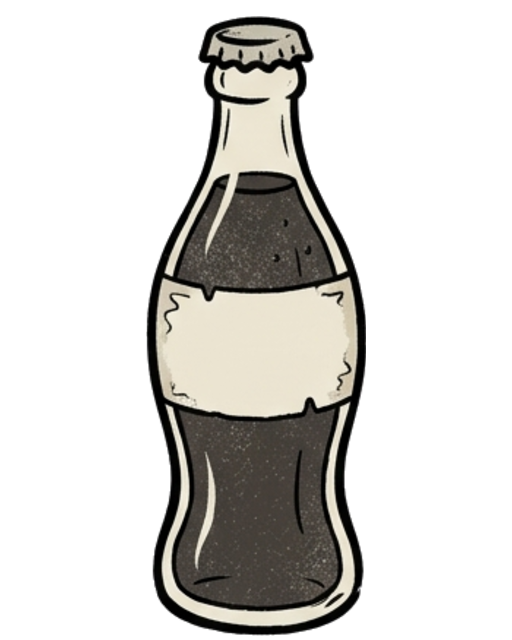
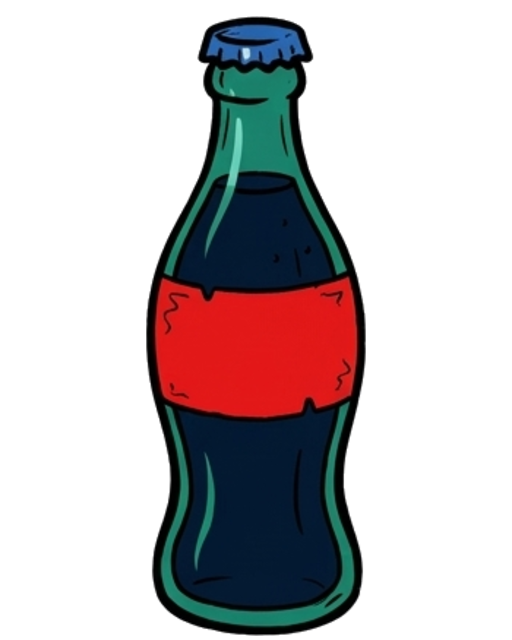
assets: cut colour sprites from gen_color_ sheets; move all source sheets to art/
Source sheets (gemini-*-solo.jpg, gen_*.jpg, gen_color_*.jpg) no longer live in
public/, so they never ship in dist. Runtime sprites are re-cut from the colour
recolours with the same crop boxes (layout matched, checked on a contact sheet).

Task: SA-V2-13

Changed region(s): [[0.2812, 0.0312, 0.7188, 1.0]]

diff --git a/tools/cut_sprites.py b/tools/cut_sprites.py
@@ -1,5 +1,8 @@
 """Re-cut clean RGBA sprites from the Gemini concept sheets (white paper background, no stands).
 
+Sources live in art/ (never shipped); the runtime cuts come from the colour recolours (gen_color_*),
+which share the B/W sheets' layout, so the crop boxes are the same.
+
 Runs the pixel work inside headless Chromium's canvas (no PIL in the project venv):
   PLAYWRIGHT_BROWSERS_PATH=.playwright-browsers .venv-browser/bin/python tools/cut_sprites.py
 Per figure: crop a region of the sheet, flood-fill the paper from the crop edges, also clear large
@@ -14,21 +17,22 @@ from playwright.sync_api import sync_playwright
 
 ROOT = Path(__file__).resolve().parents[1]
 ASSETS = ROOT / 'public' / 'assets'
+ART = ROOT / 'art'
 # Shared pixel scale per family keeps frames of one character the same size when they swap in-game.
 CAT_SCALE = 1.1
 JOBS = [
     # source, output, options: crop [x0,y0,x1,y1] in sheet px, blank = rows to clear from the top,
     # mirror = flip horizontally, hole = min enclosed-paper area cleared (default 1400; eye whites are smaller), scale = fixed px scale (else fit), fit = 'height' | 'width' | 'box'
-    ('gemini-bully-solo.jpg', 'bully.png', {}),
-    ('gemini-dog-solo.jpg', 'dog_halo.png', {'blank': 205}),
-    ('gen_cat_poses.jpg', 'gen_cat_windup.png', {'crop': [10, 180, 390, 760], 'mirror': True, 'scale': CAT_SCALE}),
-    ('gen_cat_poses.jpg', 'gen_cat_hurt.png', {'crop': [340, 180, 715, 760], 'mirror': True, 'scale': CAT_SCALE}),
-    ('gen_cat_poses.jpg', 'gen_cat_ko.png', {'crop': [670, 230, 1010, 760], 'mirror': True, 'scale': CAT_SCALE, 'hole': 150}),
-    ('gen_dog_poses.jpg', 'gen_dog_walk.png', {'crop': [0, 180, 375, 590], 'hole': 150}),
-    ('gen_dog_poses.jpg', 'gen_dog_sit.png', {'crop': [180, 190, 760, 910]}),
-    ('gen_dog_poses.jpg', 'gen_dog_sad.png', {'crop': [665, 330, 1020, 770]}),
-    ('gen_props.jpg', 'gen_barrel.png', {'crop': [50, 85, 360, 500]}),
-    ('gen_props.jpg', 'gen_bottle.png', {'crop': [790, 75, 970, 510]}),
+    ('gen_color_gemini-bully-solo.jpg', 'bully.png', {}),
+    ('gen_color_gemini-dog-solo.jpg', 'dog_halo.png', {'blank': 205}),
+    ('gen_color_gen_cat_poses.jpg', 'gen_cat_windup.png', {'crop': [10, 180, 390, 760], 'mirror': True, 'scale': CAT_SCALE}),
+    ('gen_color_gen_cat_poses.jpg', 'gen_cat_hurt.png', {'crop': [340, 180, 715, 760], 'mirror': True, 'scale': CAT_SCALE}),
+    ('gen_color_gen_cat_poses.jpg', 'gen_cat_ko.png', {'crop': [670, 230, 1010, 760], 'mirror': True, 'scale': CAT_SCALE, 'hole': 150}),
+    ('gen_color_gen_dog_poses.jpg', 'gen_dog_walk.png', {'crop': [0, 180, 375, 590], 'hole': 150}),
+    ('gen_color_gen_dog_poses.jpg', 'gen_dog_sit.png', {'crop': [180, 190, 760, 910]}),
+    ('gen_color_gen_dog_poses.jpg', 'gen_dog_sad.png', {'crop': [665, 330, 1020, 770]}),
+    ('gen_color_gen_props.jpg', 'gen_barrel.png', {'crop': [50, 85, 360, 500]}),
+    ('gen_color_gen_props.jpg', 'gen_bottle.png', {'crop': [790, 75, 970, 510]}),
 ]
 JS = '''async ([src, o]) => {
   const img = new Image(); img.src = src; await img.decode();
@@ -88,7 +92,7 @@ with sync_playwright() as p:
     browser = p.chromium.launch(headless=True, args=['--no-sandbox'])
     page = browser.new_page()
     for src, dst, opts in JOBS:
-        source = ASSETS / src
+        source = ART / src
         if not source.exists():
             print(dst, 'SKIPPED: missing', src)
             continue

diff --git a/ASSETS.md b/ASSETS.md
@@ -1,22 +1,40 @@
 # Ассеты и происхождение
 
-| Файл | Что это | Генератор | Обработка |
-|---|---|---|---|
-| `public/assets/gemini-bully-solo.jpg` | концепт задиры-кота (rubber-hose, 1930-е) | Gemini image model (через Tyler) | — исходник |
-| `public/assets/gemini-dog-solo.jpg` | концепт пса с нимбом | Gemini image model (через Tyler) | — исходник |
-| `public/assets/bully.png` | RGBA-спрайт задиры 512×640, ноги внизу | из `gemini-bully-solo.jpg` | Claude: `tools/cut_sprites.py` — заливка фона от краёв, мягкая кромка, обрезка, вписывание |
-| `public/assets/dog_halo.png` | RGBA-спрайт пса 512×640 (нарисованный нимб убран — в игре он анимированный); с SA-V2-12 — запасной, основной кадр `gen_dog_sit.png` | из `gemini-dog-solo.jpg` | Claude: `tools/cut_sprites.py` |
-| `public/assets/gen_cat_poses.jpg` | лист поз задиры-кота: замах гаечным ключом / получил / нокаут | Gemini image model (сгенерировал Tyler) | — исходник |
-| `public/assets/gen_dog_poses.jpg` | лист поз пса: идёт / сидит довольный / грустит | Gemini image model (сгенерировал Tyler) | — исходник |
-| `public/assets/gen_props.jpg` | лист пропсов: бочонок, ящики, бутылка, мусорный бак, забор | Gemini image model (сгенерировал Tyler) | — исходник |
-| `public/assets/gen_cat_windup.png`, `gen_cat_hurt.png`, `gen_cat_ko.png` | кадры задиры: замах (телеграф удара), реакция на удар, нокаут | из `gen_cat_poses.jpg` | Claude: `tools/cut_sprites.py` — вырез фигуры, отражение (смотрит как `bully.png`), общий масштаб, без нарисованных звёздочек |
-| `public/assets/gen_dog_walk.png`, `gen_dog_sit.png`, `gen_dog_sad.png` | кадры пса: идёт, сидит (основной), грустит после удара | из `gen_dog_poses.jpg` | Claude: `tools/cut_sprites.py` |
-| `public/assets/gen_barrel.png`, `gen_bottle.png` | бочонок и бутылка кваса — предметы, которые можно схватить и бросить | из `gen_props.jpg` | Claude: `tools/cut_sprites.py` |
-| `art/gemini-flash-pov-master.jpg` | старый концепт руки от первого лица (только референс, в сборку не входит) | Gemini image model (через Tyler) | — исходник |
+Цветовая логика (SA-V2-13): мир — чёрно-белый, как старая плёнка; в цвете только персонажи и то, с чем можно взаимодействовать. Поэтому в игре используются вырезки из цветных листов `gen_color_*`, а ч/б листы остались исходниками-референсами.
 
-Процедурно в рантайме (Canvas 2D / Three.js): руки игрока (шланг + перчатка, `src/arm.ts`; растровые `pov_*.png` удалены в SA-V2-12), нимб, звёздочки нокаута, тучка грустного пса, комикс-вспышки, запасные бутылка и бочонок (если PNG не загрузился), неоновые вывески, гирлянды, всё 3D-окружение, небо-градиенты уровней. Звук — синтез Web Audio, без файлов.
+Исходники лежат в `art/` и в сборку не попадают (Vite копирует в `dist/` только `public/`). В `public/assets/` — только вырезанные RGBA-спрайты, которые грузит игра.
 
-Не использованы из `gen_props.jpg`: ящики, мусорный бак и забор — укрытия остаются 3D-геометрией (это настоящие препятствия с глубиной и тенями; плоская картинка на кубе смотрелась бы хуже).
+## Исходники (`art/`, не в сборке)
+
+| Файл | Что это | Генератор |
+|---|---|---|
+| `art/gemini-bully-solo.jpg` | ч/б концепт задиры-кота (rubber-hose, 1930-е) | Gemini image model (через Tyler) |
+| `art/gemini-dog-solo.jpg` | ч/б концепт пса с нимбом | Gemini image model (через Tyler) |
+| `art/gen_cat_poses.jpg` | ч/б лист поз задиры: замах гаечным ключом / получил / нокаут | Gemini image model (сгенерировал Tyler) |
+| `art/gen_dog_poses.jpg` | ч/б лист поз пса: идёт / сидит довольный / грустит | Gemini image model (сгенерировал Tyler) |
+| `art/gen_props.jpg` | ч/б лист пропсов: бочонок, ящики, бутылка, мусорный бак, забор | Gemini image model (сгенерировал Tyler) |
+| `art/gen_color_gemini-bully-solo.jpg` | цветная перерисовка `gemini-bully-solo.jpg` (рыжий кот, кепка, полосатый свитер) | Gemini image model (сгенерировал Tyler) |
+| `art/gen_color_gemini-dog-solo.jpg` | цветная перерисовка `gemini-dog-solo.jpg` (золотой нимб) | Gemini image model (сгенерировал Tyler) |
+| `art/gen_color_gen_cat_poses.jpg` | цветная перерисовка `gen_cat_poses.jpg`, раскладка та же | Gemini image model (сгенерировал Tyler) |
+| `art/gen_color_gen_dog_poses.jpg` | цветная перерисовка `gen_dog_poses.jpg`, раскладка та же | Gemini image model (сгенерировал Tyler) |
+| `art/gen_color_gen_props.jpg` | цветная перерисовка `gen_props.jpg`, раскладка та же | Gemini image model (сгенерировал Tyler) |
+| `art/gemini-flash-pov-master.jpg` | старый концепт руки от первого лица (только референс) | Gemini image model (через Tyler) |
+
+## Спрайты в игре (`public/assets/`)
+
+Все вырезаны Claude скриптом `tools/cut_sprites.py` из цветных листов; кропы те же, что для ч/б листов (раскладка совпала, проверено глазами по контактному листу).
+
+| Файл | Что это | Из листа |
+|---|---|---|
+| `bully.png` | задира 512×640, основная стойка | `gen_color_gemini-bully-solo.jpg` |
+| `dog_halo.png` | пёс сидит (нарисованный нимб срезан — в игре он анимированный); запасной кадр | `gen_color_gemini-dog-solo.jpg` |
+| `gen_cat_windup.png`, `gen_cat_hurt.png`, `gen_cat_ko.png` | задира: замах (телеграф удара), реакция на удар, нокаут; отражены, общий масштаб, без нарисованных звёздочек | `gen_color_gen_cat_poses.jpg` |
+| `gen_dog_walk.png`, `gen_dog_sit.png`, `gen_dog_sad.png` | пёс: идёт, сидит (основной), грустит после удара | `gen_color_gen_dog_poses.jpg` |
+| `gen_barrel.png`, `gen_bottle.png` | бочонок и бутылка — предметы, которые можно схватить и бросить | `gen_color_gen_props.jpg` |
+
+Процедурно в рантайме (Canvas 2D / Three.js): руки игрока (шланг с цветным рукавом + белая перчатка, `src/arm.ts`), золотой нимб, звёздочки нокаута, тучка грустного пса, комикс-вспышки, запасные бутылка и бочонок (если PNG не загрузился), неоновые вывески, гирлянды, всё 3D-окружение, небо-градиенты уровней, плёночное зерно и виньетка. Окружение при загрузке переводится в оттенки серого (`src/palette.ts`). Звук — синтез Web Audio, без файлов.
+
+Не использованы из `gen_props` / `gen_color_gen_props`: ящики, мусорный бак и забор — укрытия остаются 3D-геометрией (это настоящие препятствия с глубиной и тенями).
 
 Вырезка: заливка бумаги от краёв кропа, очистка крупных замкнутых белых дыр, только главная фигура, кромка «отмыта» от белого (без светлого ореола).
 
